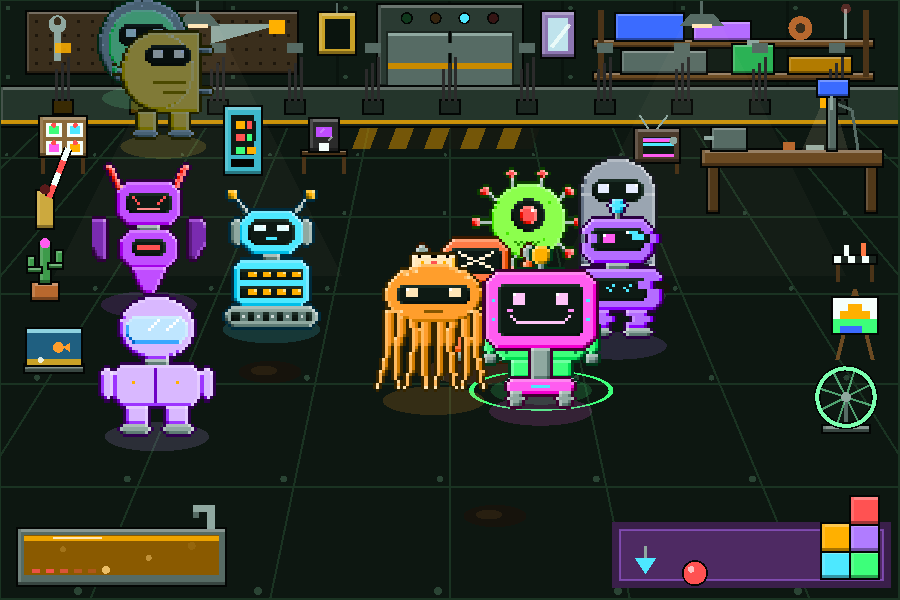
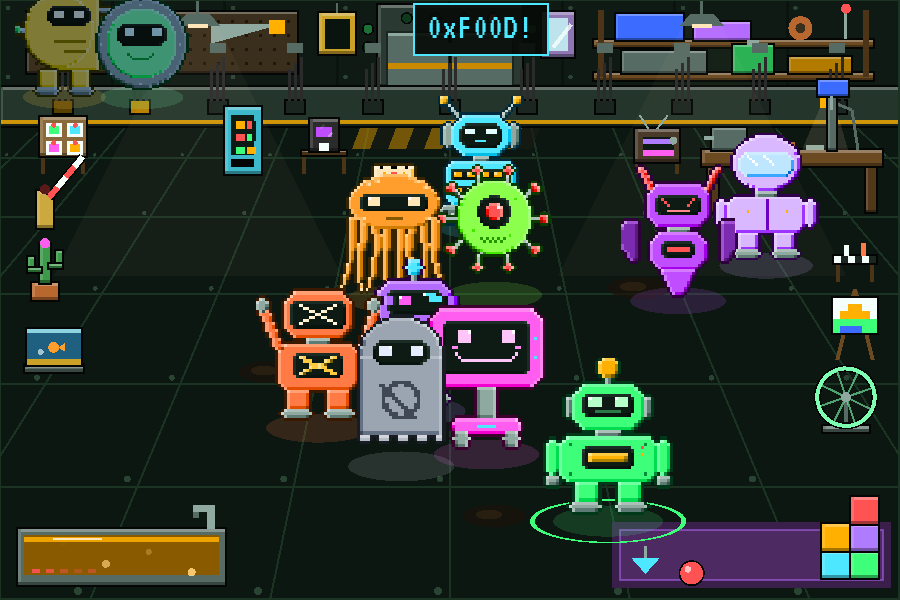
Archiv: Teams und Aufträge, Aufzug als Station

diff --git a/archiv/bolt-buddies/index.html b/archiv/bolt-buddies/index.html
@@ -46,8 +46,8 @@
       <section class="wiki-sec">
         <h2>Orte</h2>
         <ul class="place-list">
-        <li class="place"><img class="place-img" src="../weltkarte/img/workshop.png" alt="Die Werkstatt" loading="lazy"><div class="place-head"><h3>Die Werkstatt</h3></div><p class="game-genre">Zuhause</p><p>Hier wohnen alle geretteten Roboter. Sie laufen frei herum, wollen gestreichelt, geölt und geladen werden und schlafen an der Ladeleiste. Jeder Gerettete bringt ein persönliches Teil mit, so füllt sich der Raum mit jedem Roboter.</p></li>
-        <li class="place"><img class="place-img" src="../weltkarte/img/lift.png" alt="Der Aufzug" loading="lazy"><div class="place-head"><h3>Der Aufzug</h3></div><p class="game-genre">zwischen den Kämpfen</p><p>Nach jedem Kampf: weiter nach unten oder mit der ganzen Beute nach Hause. Die nächsten Gegner sind schon zu sehen, und es gibt zwei Wege: den Hauptschacht und einen Nebenschacht mit zäheren Gegnern und 75 % mehr Schrauben.</p></li>
+        <li class="place"><img class="place-img" src="../weltkarte/img/workshop.png" alt="Die Werkstatt" loading="lazy"><div class="place-head"><h3>Die Werkstatt</h3></div><p class="game-genre">Zuhause</p><p>Hier wohnen alle geretteten Roboter. Das aktive Team läuft frei herum, will gestreichelt, geölt und geladen werden und schläft an der Ladeleiste. Alle anderen ruhen bei ihrem Teil und brauchen nichts. Jeder Gerettete bringt ein persönliches Teil mit, so füllt sich der Raum mit jedem Roboter.</p></li>
+        <li class="place"><img class="place-img" src="../weltkarte/img/lift.png" alt="Der Aufzug" loading="lazy"><div class="place-head"><h3>Der Aufzug</h3></div><p class="game-genre">zwischen den Kämpfen</p><p>Nach jedem Kampf: weiter nach unten oder mit der ganzen Beute nach Hause. Die nächsten Gegner sind schon zu sehen, und es gibt zwei Wege: den Hauptschacht und einen Nebenschacht mit zäheren Gegnern und 75 % mehr Schrauben. Ruhende Teams fahren hier für Stunden allein auf Auftrag.</p></li>
         <li class="place"><div class="place-head"><h3>Der Schrottschacht</h3></div><p class="game-genre">unter der Werkstatt</p><p>Kampf für Kampf geht es tiefer. Dort liegen Schrauben, Akkus, Öl und Ausrüstung, und abgeschaltete Roboter warten in ihrer Ebene auf Rettung.</p></li>
         </ul>
         <h3 class="wiki-sub" id="ebenen">Die Ebenen des Schrottschachts</h3>
@@ -63,6 +63,7 @@
 <thead><tr><th>Feature</th><th>Worum es geht</th><th>Version</th></tr></thead>
 <tbody>
 <tr><td><b>Schacht-Ebenen</b></td><td>Umgesetzt: Alle 10 Kämpfe eine neue Ebene mit eigener Kulisse, eigenem Gegner, Boss und Wächter, dazu Haltestellen zum Direkteinstieg. Siehe <a href="#ebenen">oben</a>.</td><td>1.0</td></tr>
+<tr><td><b>Teams und Aufträge</b></td><td>Umgesetzt: Bis zu sechs Teams, genau eines ist aktiv und wird gepflegt, alle anderen ruhen. Ruhende Teams gehen für 1, 4, 8 oder 12 Echtzeitstunden auf Auftrag und bringen danach Beute mit. Der Aufzug im Ausbau erlaubt mehr Aufträge gleichzeitig.</td><td>1.0</td></tr>
 <tr><td><b>Aufzug mit zwei Wegen</b></td><td>Umgesetzt: Vorschau auf die nächsten Gegner, dazu ein Nebenschacht mit zäheren Gegnern und mehr Schrauben.</td><td>1.0</td></tr>
 <tr><td><b>Rettung je Ebene</b></td><td>Umgesetzt: Jeder Roboter wartet in seiner Ebene. Wo, steht im <a href="../roboter/">Roboter-Register</a>.</td><td>1.0</td></tr>
 <tr><td><b>Werkstatt</b></td><td>Umgesetzt: eingerichtete Werkstatt, jeder Gerettete bringt ein persönliches Teil mit. Ladeleiste, Ölbad, Spielecke und Werkbank in drei Stufen, die Funkantenne folgt mit dem Funk. Siehe <a href="../ersatzteile/#ausbau">Ersatzteillager</a>.</td><td>1.0</td></tr>

diff --git a/archiv/ersatzteile/index.html b/archiv/ersatzteile/index.html
@@ -130,10 +130,12 @@
             <p class="game-genre">60 / 180 / 450 Schrauben</p><p><b>Laune sinkt 15 / 30 / 45 % langsamer</b></p><p>Ein Teppich mit Bauklötzen, ab Stufe 2 mit Ball, ab Stufe 3 mit Kreisel.</p></li>
           <li class="station"><img src="img/station_bench.png" alt="Werkbank" loading="lazy"><div class="place-head"><h3>Werkbank</h3></div>
             <p class="game-genre">80 / 200 / 450 Schrauben</p><p><b>zerlegen und aufwerten / 25 % / 50 % günstiger</b></p><p>Mit Schraubstock, ab Stufe 2 mit Lampe, ab Stufe 3 mit Bohrmaschine, die Funken sprüht.</p></li>
+          <li class="station"><img src="img/station_lift.png" alt="Aufzug" loading="lazy"><div class="place-head"><h3>Aufzug</h3></div>
+            <p class="game-genre">250 / 600 Schrauben</p><p><b>2 / 3 Aufträge gleichzeitig</b></p><p>Seitlich an der Aufzugstür leuchtet je Stufe eine grüne Lampe. Nur zwei Stufen.</p></li>
           <li class="station"><img src="img/station_radio.png" alt="Funkantenne" loading="lazy"><div class="place-head"><h3>Funkantenne</h3><span class="badge badge-plan">Geplant</span></div>
             <p class="game-genre">kommt später Schrauben</p><p><b>empfängt Post aus den anderen Spielen</b></p><p>Steht auf dem Regal und blinkt, siehe <a href="../funk/">Funkverbindung</a>.</p></li>
         </ul>
-        <p>Alles zusammen kostet 2830 Schrauben. Eine Expedition bringt je nach Stufe des Teams etwa 30 bis 290, für die erste Station reichen zwei frühe Expeditionen.</p>
+        <p>Alles zusammen kostet 3650 Schrauben. Eine Expedition bringt je nach Stufe des Teams etwa 30 bis 290, für die erste Station reichen zwei frühe Expeditionen.</p>
       </section>
       <section class="wiki-sec" id="werkbank" data-game="bb">
         <h2>Werkbank</h2>

diff --git a/tools/make_archiv.py b/tools/make_archiv.py
@@ -419,8 +419,8 @@ write("weltkarte", head("Archiv · Weltkarte", "Weltkarte",
     game("bolt-buddies", "Gehäusemitte und Schacht", "Bolt Buddies", LIVE, "Roboter pflegen und Auto-Kämpfe",
          "Die Werkstatt ist das Zuhause aller geretteten Roboter. Sie brauchen Akku, Öl und Aufmerksamkeit. Ein Team aus bis zu drei Robotern zieht in den Schrottschacht, kämpft dort von selbst und bringt Schrauben, Ausrüstung und neue Freunde mit.",
          "Heimat aller Roboter: Stufen, Ausrüstung, Pflege", "Alle 22 Roboter, als Erster BYTE", [
-             place("Die Werkstatt", "Zuhause", "Hier wohnen alle geretteten Roboter. Sie laufen frei herum, wollen gestreichelt, geölt und geladen werden und schlafen an der Ladeleiste. Jeder Gerettete bringt ein persönliches Teil mit, so füllt sich der Raum mit jedem Roboter.", img="workshop.png"),
-             place("Der Aufzug", "zwischen den Kämpfen", "Nach jedem Kampf: weiter nach unten oder mit der ganzen Beute nach Hause. Die nächsten Gegner sind schon zu sehen, und es gibt zwei Wege: den Hauptschacht und einen Nebenschacht mit zäheren Gegnern und 75 % mehr Schrauben.", img="lift.png"),
+             place("Die Werkstatt", "Zuhause", "Hier wohnen alle geretteten Roboter. Das aktive Team läuft frei herum, will gestreichelt, geölt und geladen werden und schläft an der Ladeleiste. Alle anderen ruhen bei ihrem Teil und brauchen nichts. Jeder Gerettete bringt ein persönliches Teil mit, so füllt sich der Raum mit jedem Roboter.", img="workshop.png"),
+             place("Der Aufzug", "zwischen den Kämpfen", "Nach jedem Kampf: weiter nach unten oder mit der ganzen Beute nach Hause. Die nächsten Gegner sind schon zu sehen, und es gibt zwei Wege: den Hauptschacht und einen Nebenschacht mit zäheren Gegnern und 75 % mehr Schrauben. Ruhende Teams fahren hier für Stunden allein auf Auftrag.", img="lift.png"),
              place("Der Schrottschacht", "unter der Werkstatt", "Kampf für Kampf geht es tiefer. Dort liegen Schrauben, Akkus, Öl und Ausrüstung, und abgeschaltete Roboter warten in ihrer Ebene auf Rettung."),
          ],
          '        <h3 class="wiki-sub" id="ebenen">Die Ebenen des Schrottschachts</h3>\n'
@@ -436,6 +436,7 @@ write("weltkarte", head("Archiv · Weltkarte", "Weltkarte",
          + '        <h3 class="wiki-sub">Was noch kommt</h3>\n'
          + table(["Feature", "Worum es geht", "Version"], [
              ["<b>Schacht-Ebenen</b>", 'Umgesetzt: Alle 10 Kämpfe eine neue Ebene mit eigener Kulisse, eigenem Gegner, Boss und Wächter, dazu Haltestellen zum Direkteinstieg. Siehe <a href="#ebenen">oben</a>.', "1.0"],
+             ["<b>Teams und Aufträge</b>", "Umgesetzt: Bis zu sechs Teams, genau eines ist aktiv und wird gepflegt, alle anderen ruhen. Ruhende Teams gehen für 1, 4, 8 oder 12 Echtzeitstunden auf Auftrag und bringen danach Beute mit. Der Aufzug im Ausbau erlaubt mehr Aufträge gleichzeitig.", "1.0"],
              ["<b>Aufzug mit zwei Wegen</b>", "Umgesetzt: Vorschau auf die nächsten Gegner, dazu ein Nebenschacht mit zäheren Gegnern und mehr Schrauben.", "1.0"],
              ["<b>Rettung je Ebene</b>", 'Umgesetzt: Jeder Roboter wartet in seiner Ebene. Wo, steht im <a href="../roboter/">Roboter-Register</a>.', "1.0"],
              ["<b>Werkstatt</b>", 'Umgesetzt: eingerichtete Werkstatt, jeder Gerettete bringt ein persönliches Teil mit. Ladeleiste, Ölbad, Spielecke und Werkbank in drei Stufen, die Funkantenne folgt mit dem Funk. Siehe <a href="../ersatzteile/#ausbau">Ersatzteillager</a>.', "1.0"],
@@ -619,8 +620,12 @@ def copy_art():
         os.makedirs(parts, exist_ok=True)
         os.makedirs(world, exist_ok=True)
         for name in os.listdir(art):
+            if not name.endswith(".png"):
+                continue
             dst = world if name.startswith(("layer_", "workshop", "lift")) else parts
             shutil.copyfile(os.path.join(art, name), os.path.join(dst, name))
+            if name == "lift.png":
+                shutil.copyfile(os.path.join(art, name), os.path.join(parts, "station_lift.png"))
     shots = os.path.join(OUT, "..", "Bits-and-Bolts", "store", "de", "screenshots")
     if os.path.isdir(shots):
         from PIL import Image
@@ -681,6 +686,7 @@ STATIONS = [
     ("bath", "Ölbad", "Pflege sinkt 15 / 30 / 45 % langsamer", "60 / 180 / 450", "Eine Wanne mit schwappendem Öl und Blasen. Auf Stufe 3 glüht eine Heizspirale."),
     ("play", "Spielecke", "Laune sinkt 15 / 30 / 45 % langsamer", "60 / 180 / 450", "Ein Teppich mit Bauklötzen, ab Stufe 2 mit Ball, ab Stufe 3 mit Kreisel."),
     ("bench", "Werkbank", "zerlegen und aufwerten / 25 % / 50 % günstiger", "80 / 200 / 450", "Mit Schraubstock, ab Stufe 2 mit Lampe, ab Stufe 3 mit Bohrmaschine, die Funken sprüht."),
+    ("lift", "Aufzug", "2 / 3 Aufträge gleichzeitig", "250 / 600", "Seitlich an der Aufzugstür leuchtet je Stufe eine grüne Lampe. Nur zwei Stufen."),
     ("radio", "Funkantenne", "empfängt Post aus den anderen Spielen", "kommt später", 'Steht auf dem Regal und blinkt, siehe <a href="../funk/">Funkverbindung</a>.'),
 ]
 
@@ -747,7 +753,7 @@ write("ersatzteile", head("Archiv · Ersatzteillager", "Ersatzteillager",
         <ul class="station-grid">
 {stations_html}
         </ul>
-        <p>Alles zusammen kostet 2830 Schrauben. Eine Expedition bringt je nach Stufe des Teams etwa 30 bis 290, für die erste Station reichen zwei frühe Expeditionen.</p>
+        <p>Alles zusammen kostet 3650 Schrauben. Eine Expedition bringt je nach Stufe des Teams etwa 30 bis 290, für die erste Station reichen zwei frühe Expeditionen.</p>
       </section>
       <section class="wiki-sec" id="werkbank"{g("bb")}>
         <h2>Werkbank</h2>
